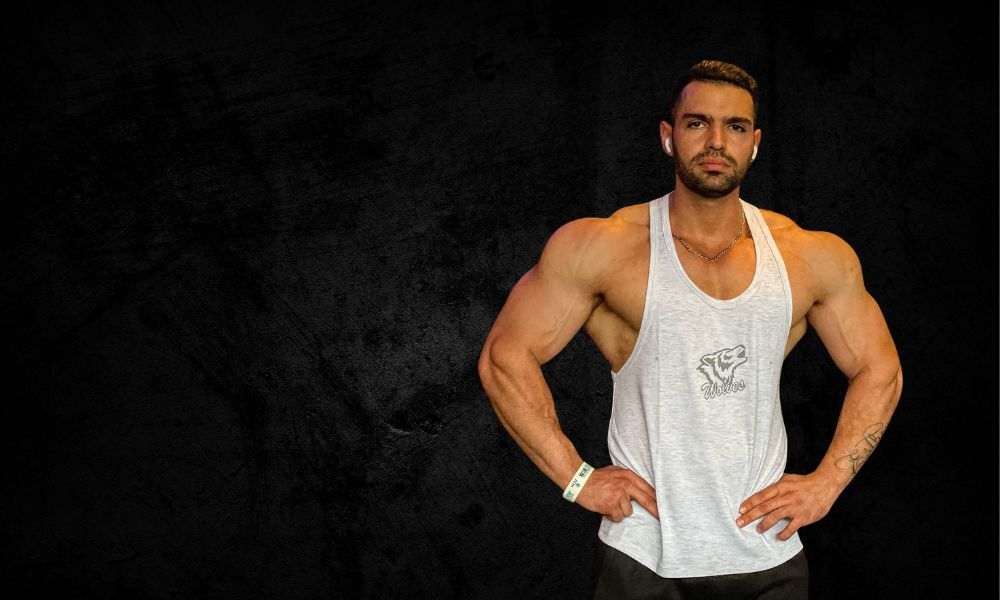
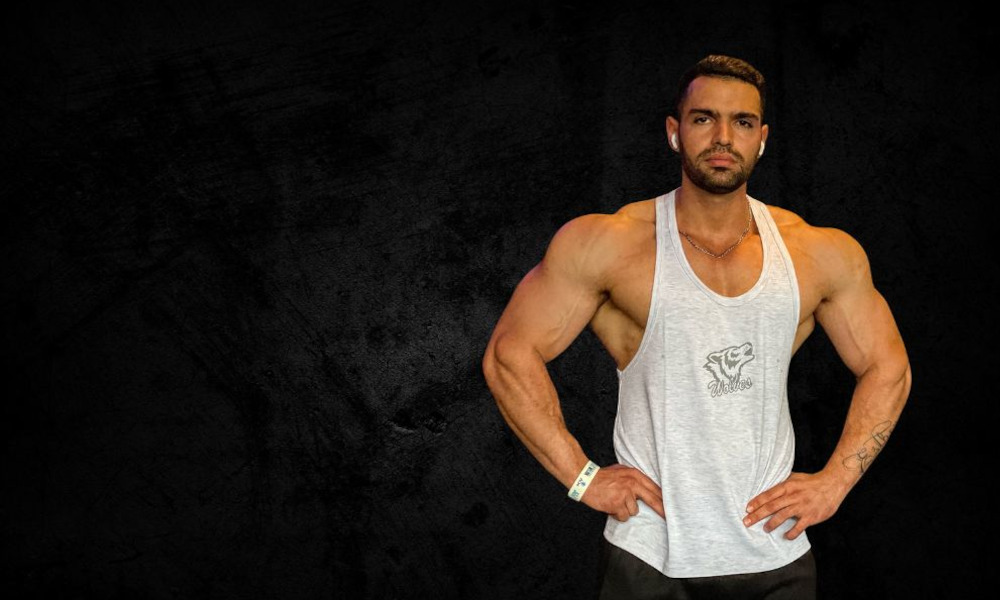
AVANCE

diff --git a/style.css b/style.css
@@ -1,8 +1,24 @@
 html, body {
     scroll-behavior: smooth;
-    height: 100%;
     margin: 0;
     background-color: rgb(0, 0, 0);
+    padding: 0;
+}
+.wsp {
+    display: flex;
+    flex-direction: column;
+    position: fixed;
+    right: 10px;
+    bottom: 20px;
+    text-align: center;
+}
+.flecha-arriba {
+    display: none;
+}
+.logo {
+    margin-top: 5px;
+    margin-left: 5px;
+    padding: 0;
 }
 .barra-superior {
     width: 100%;
@@ -13,7 +29,6 @@ html, body {
     width: 100%;
     height: 0px;
     color: white;
-    padding: 10px;
     z-index: 1000;
 }
 .nav-bar ul {
@@ -37,33 +52,38 @@ html, body {
     color: white;
     padding: 5px;
 }
-#inicio {
+.inicio {
+    width: 100%;
     height: 100vh;
     background-image: url("imagenes/portada.jpg");
-    background-size: 110%;
-    background-position-x: center;
+    background-size: auto 100vh;
+    background-position: top;
     background-repeat: no-repeat;
 }
 .portada {
+    margin: 0;
     width: 100%;
-    padding: 20px;
+    z-index: 100;
+    position: absolute;
 }
 .portada h1 {
     color: white;
     text-shadow: #ff0000 0px 0px 5px;
     text-align: left;
-    margin-top: 150px;
     font-size: 45px;
+    padding: 200px 0px 0px 20px;
+    margin-top: 0;
+
 }
 .inicio h2 {
-    width: 80vw;
+    width: 100%;
     color: rgba(255, 255, 255, 0.04);
     text-align: right;
     font-family: sans-serif;
-    font-size: 120px;
+    font-size: 20vw;
     position: absolute;
-    right: 0;
-    margin-top: 15px;
+    margin-top: 10px;
+    margin-bottom: 0;
     user-select: none;
     z-index: 1;
 }
@@ -76,8 +96,8 @@ html, body {
     text-decoration: none;
     font-size: 10px;
     cursor: pointer;
-    position: absolute;
-    z-index: 2;
+    z-index: 5;
+    margin-left: 20px;
 }
 .btn:hover {
     background-color: #ffffff;
@@ -85,6 +105,7 @@ html, body {
 }
 .sobremi {
     display: flex;
+    flex-wrap: wrap;
     background-color: rgb(238, 238, 238);
     color: rgb(0, 0, 0);
     padding: 50px 25px;
@@ -99,12 +120,28 @@ html, body {
     height: 3px;
     background-color: #ff0000;
 }
+.textosobremi {
+    display: flex;
+    flex-wrap: wrap;
+    flex-direction: column;
+    justify-content: center;
+    width: 45%;
+}
+.sobremi {
+    display: flex;
+    flex-wrap: wrap;
+    background-color: rgb(238, 238, 238);
+    color: rgb(0, 0, 0);
+    padding: 50px 25px;
+    text-align: center;
+    gap: 20px;
+    font-family: sans-serif;
+}
 .sobremi h1 {
     color: #000000;
     font-size: 20pt;
     text-align: left;
     margin: 0;
-
 }
 .sobremi p {
     color: #444444;
@@ -112,8 +149,16 @@ html, body {
     text-align: left;
     line-height: 1.5;
 }
+.foto1 {
+    display: flex;
+    flex-wrap: wrap;
+    justify-content: center;
+    width: 50%;
+}
 .foto1 img {
     border-radius: 10px;
+    width: 280px;
+    height: 280px;
 }
 .division {
     display: flex;
@@ -130,6 +175,7 @@ html, body {
 }
 .personaltraining {
     display: flex;
+    flex-wrap: wrap;
     background-color: rgb(238, 238, 238);
     color: rgb(0, 0, 0);
     padding: 50px 25px;
@@ -148,9 +194,90 @@ html, body {
     font-size: 8pt;
     text-align: left;
     line-height: 1.5;
-    padding-right: 10px;
 }   
 .personaltraining img {
     width: 250px;
     border-radius: 10px;
+}
+.textopersonaltraining {
+    display: flex;
+    flex-wrap: wrap;
+    flex-direction: column;
+    justify-content: center;
+    width: 50%;
+}
+.planes {
+    display: flex;
+    flex-direction: column;
+    padding: 50px 25px;
+    text-align: center;
+    font-family: sans-serif;
+}
+.textoplanes h1 {
+    color: #ffffff;
+    font-size: 20pt;
+    text-align: left;
+    margin: 0;
+}
+.textoplanes {
+    display: flex;
+    flex-wrap: wrap;
+    flex-direction: column;
+    justify-content: center;
+    width: 100%;
+    color: white;
+    text-align: left;
+}
+.textoplanes p {
+    font-size: 8pt;
+    text-align: justify;
+    line-height: 1.5;
+}
+.contenedoresplanes {
+    display: flex;
+    flex-wrap: wrap;
+    flex-direction: row;
+    justify-content: center;
+    align-items: center;
+    width: 100%;
+    gap: 20px;
+    margin-top: 20px;
+}
+.plan1 {
+    display: flex;
+    flex-direction: column;
+    justify-content: left;
+    width: 200px;
+    height: 280px;
+    border: 1px solid #ffffff;
+    background-position-y: top;
+}
+.plan1 h1 {
+    color: #ff0000;
+    font-size: 8pt;
+    text-align: left;
+    margin: 0;
+    padding: 25px;
+    line-height: 1.5;
+    text-shadow: #000000 0px 0px 5px;
+}
+.plan1 p {
+    color: #ffffff;
+    font-size: 7pt;
+    text-align: left;
+    margin: 0 10px;
+    padding: 10px 15px;
+    line-height: 2.5;
+    width: 60%;
+    border-bottom: 1px solid #ffffff;
+}
+.plan1 button {
+    background-color: #ff000000;
+    border: none;
+    color: rgb(255, 0, 0);
+    text-align: center;
+    text-decoration: none;
+    font-size: 8pt;
+    cursor: pointer;
+    padding: 20px 5px;
 }

diff --git a/index.html b/index.html
@@ -2,14 +2,14 @@
 <html lang="en">
 <head>
     <meta charset="UTF-8">
-    <meta name="viewport" content="width=, initial-scale=1.0">
+    <meta name="viewport" content="width=device-width, initial-scale=1.0">
     <title>Document</title>
     <link rel="stylesheet" href="style.css">
 </head>
 <body>
 
 <section id="inicio" class="inicio">
-    <h2>FITNESS<br>TRAINER</h2>
+    <h2>FITNESS<br>TRAINER</h2>  
     <div class="barra-superior">
         <nav class="nav-bar">
             <div class="logo">
@@ -26,12 +26,19 @@
     </div>
     <div class="portada">
         <h1>OSCAR PEREZ</h1>
-        <button class="btn">PLANES</button>    
+        <button class="btn">PLANES</button>
+  
+    </div>
+    <div class="wsp">
+        <a href="https://api.whatsapp.com/send?phone=51916875034" target="_blank">
+            <img src="imagenes/whatsapp-rojo.png" alt="WhatsApp" width="50px">
+        </a>
+        <a class="flecha-arriba" href="#inicio"><img src="imagenes/flecha-hacia-arriba.png" alt="flecha-arriba" width="30px"></a>
     </div>
 </section>
 
 <section id="sobremi" class="sobremi">
-    <div>
+    <div class="textosobremi">
         <h1>SOBRE MI</h1>
         <div class="linea"></div>
         <p>Soy Oscar Pérez, entrenador personal, ex atleta de culturismo
@@ -62,7 +69,7 @@
     <div class="foto2">
         <img src="imagenes/foto-2.jpg" alt="entrenador" width="300px">
     </div>
-    <div>
+    <div class="textopersonaltraining">
         <h1>PERSONAL TRAINER</h1>
         <div class="linea"></div>
         <p>Entrenador personal con experiencia en culturismo, natación y 
@@ -79,6 +86,65 @@
     </div>
 </section>
 
+<section id="Planes" class="planes">
+    <div class="textoplanes">
+        <h1>PLANES DE ENTRENAMIENTO</h1>
+        <div class="linea"></div>
+        <p>Ofrezco planes de entrenamiento personalizados para cada cliente, 
+            adaptados a sus necesidades y objetivos específicos. Mis planes 
+            incluyen rutinas de entrenamiento, asesoramiento nutricional y 
+            seguimiento constante para asegurar resultados óptimos. Ya sea 
+            que busques perder peso, ganar masa muscular o mejorar tu 
+            rendimiento deportivo, estoy aquí para ayudarte a alcanzar tus metas.</p>
+    </div>
+
+    <div class="contenedoresplanes">
+
+        <div class="plan1" style="background: linear-gradient(rgba(30, 0, 0, 0.5),
+         rgba(30, 0, 0, 0.5)), url('imagenes/plan-1.jpg') no-repeat center center/cover; background-position: top left">
+            <h1>ENTRENAMIENTO<br>
+                PERSONALIZADO</h1>
+            <div class="lineaplan"></div>        
+            <p>Entrenamiento presencial</p>
+            <p>Plan nutricional</p>
+            <p>Plan de entrenamiento</p>
+            <button class="btnplan">Lo quiero ></button>
+        </div>
+        <div class="plan1" style="background: linear-gradient(rgba(30, 0, 0, 0.5),
+        rgba(30, 0, 0, 0.5)), url('imagenes/plan2.jpg') no-repeat center center/cover; background-position: top left;">
+            <h1>ASESORIA<br>
+                ONLINE</h1>
+            <div class="lineaplan"></div>        
+            <p>Plan de entrenamiento</p>
+            <p>Plan de alimentacion</p>
+            <p>Asesoria via wsp 24/7</p>
+            <button class="btnplan">Lo quiero ></button>
+        </div>
+        <div class="plan1" style="background: linear-gradient(rgba(30, 0, 0, 0.5),
+        rgba(30, 0, 0, 0.5)), url('imagenes/plan3.jpg') no-repeat center/cover; background-position: top left;">
+            <h1>ENTRENAMIENTO<br>
+                PERSONALIZADO</h1>
+            <div class="lineaplan"></div>        
+            <p>Entrenamiento presencial</p>
+            <p>Plan nutricional</p>
+            <p>Plan de entrenamiento</p>
+            <button class="btnplan">Lo quiero ></button>
+        </div>
+
+    </div>
+</section>
+
+<script>
+    const scrollToTopButton = document.querySelector('.wsp a[href="#inicio"]'); // Selecciona el ícono de scroll hacia arriba
+
+    window.addEventListener('scroll', () => {
+        if (window.scrollY > 200) { // Si el usuario ha hecho scroll hacia abajo más de 100px
+            scrollToTopButton.style.display = 'block'; // Muestra el botón
+        } else {
+            scrollToTopButton.style.display = 'none'; // Oculta el botón
+        }
+    });
+</script>
 
 </body>
 </html>
